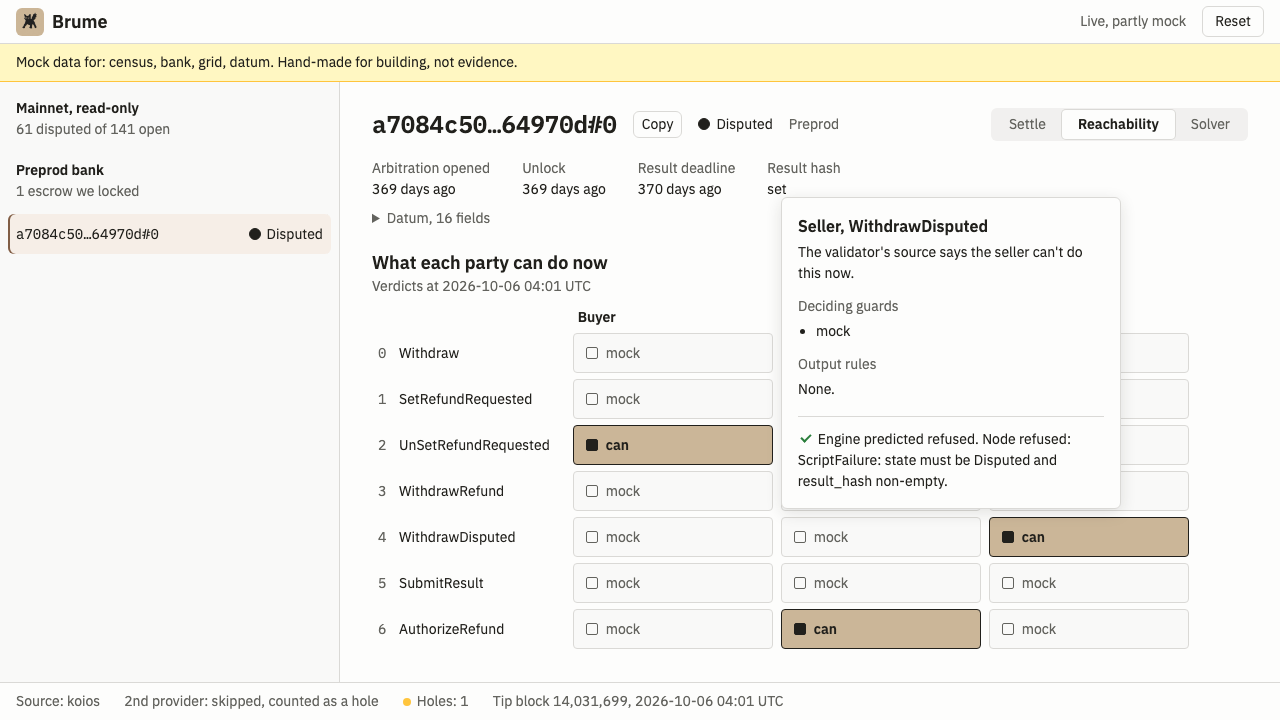
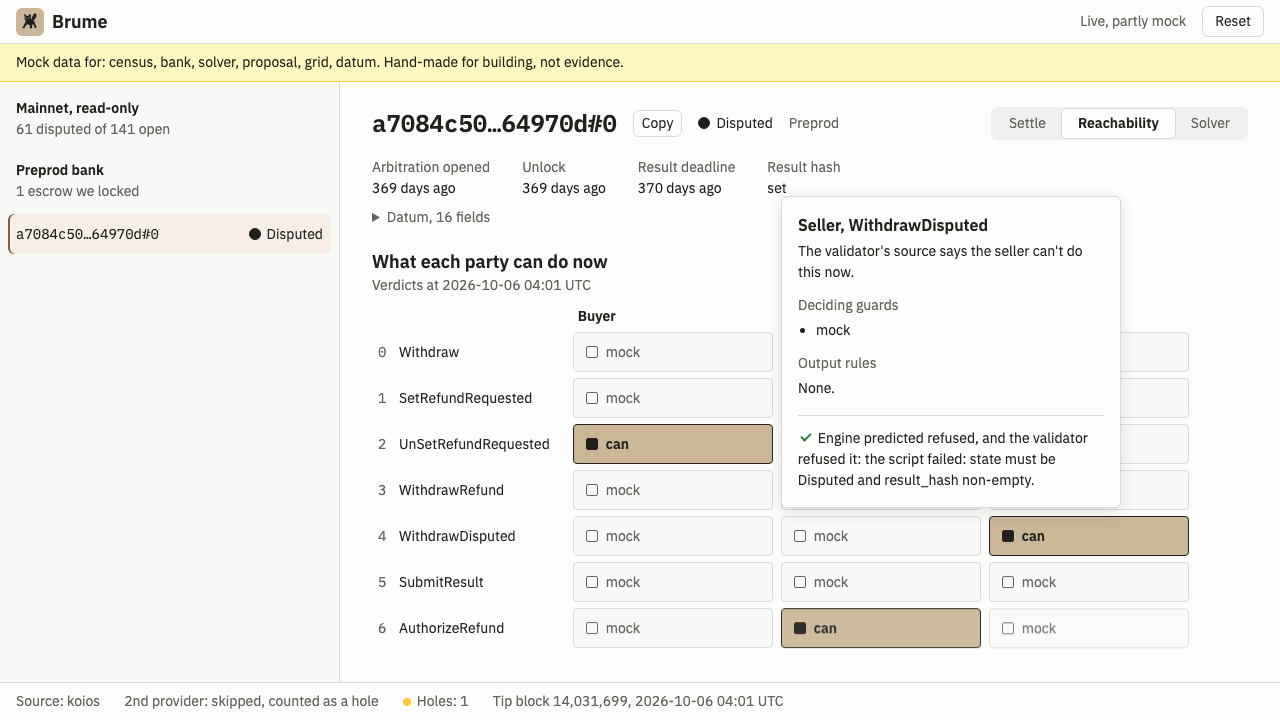
feat(ui): adopt the 13:25 shared batch: block refs, refusal phases, payout read-back, per-path bands

diff --git a/docs/app.js b/docs/app.js
@@ -183,9 +183,7 @@ function tryAnyway(row, v, anchor) {
       btn.remove()
       // expected = the engine's prediction recorded before submitting; stage = where the outcome was decided.
       const predicted = e.expected === 'accept' ? 'accepted' : 'refused'
-      const result = e.status === 'accepted'
-        ? ['the node accepted it: ', txLink(e.txHash)]
-        : [`${e.stage === 'evaluate' ? 'refused when evaluated, before submission' : 'the node refused it'}: ${e.error ?? 'no reason given'}.`]
+      const result = e.status === 'accepted' ? ['the node accepted it: ', txLink(e.txHash)] : [`${refusal(e)}.`]
       const matched = (e.status === 'accepted') === (e.expected === 'accept')
       out.replaceChildren(matched
         ? h('p', { class: 'matched' }, `Engine predicted ${predicted}, and `, result)
@@ -377,7 +375,15 @@ function sendButton(row, rerun) {
   return h('div', {}, btn, !live && h('span', { class: 'hint' }, 'Runs in live mode'), err)
 }
 
-const outcome = e => e.blockHeight ? `confirmed in block ${e.blockHeight.toLocaleString('en')}` : 'accepted'
+const outcome = e => e.block ? `confirmed in block ${e.block.height.toLocaleString('en')}` : 'accepted'
+
+// Claims rule: only a phase-2 failure (the script failed) may be called the validator refusing. Phase 1 is a ledger rule, e.g. a spent input.
+function refusal(e) {
+  if (e.stage === 'evaluate') return `refused when evaluated, before submission: ${e.refusal?.ledgerError ?? e.error ?? 'no reason given'}`
+  if (e.refusal?.phase === 2) return `the validator refused it: ${e.error ?? e.refusal.ledgerError}`
+  if (e.refusal?.phase === 1) return `the ledger refused it: ${e.refusal.ledgerError}`
+  return `refused: ${e.error ?? 'no reason given'}`
+}
 
 function settleSteps(row, proposal, log, rerun, band, wait) {
   const ctx = { row, proposal, rerun, wait }
@@ -407,14 +413,14 @@ function settleSteps(row, proposal, log, rerun, band, wait) {
       body: signed(conceder) ? [] : [waitingFor(conceder, ctx), validity] },
     { label: `${cap(conceder)} sends both legs`, done: leg1?.status === 'accepted' && leg2?.status === 'accepted', error: refused, waiting: 'Ready to send',
       body: refused
-        ? [h('p', {}, `Refused by the node: ${refused.error ?? 'no reason given'}. Start over on the next bank escrow.`)]
+        ? [h('p', {}, `${cap(refusal(refused))}. Start over on the next bank escrow.`)]
         : leg1 || leg2
           ? [[leg1, leg2].filter(Boolean).map(e => h('p', { class: 'hash' }, `${e.step}: ${outcome(e)}, `, txLink(e.txHash)))]
           : [sendButton(row, rerun), validity] },
     { label: 'Balances read back from the second indexer', done: !!leg2?.readback, waiting: 'Waiting for read-back',
       body: leg2?.readback ? [
         h('p', {}, `Read back on ${leg2.readback.provider}: ${leg2.readback.validContract ? 'valid contract' : 'contract not valid'}.`),
-        leg2.readback.balances && renderBalances(leg2.readback.balances),
+        leg2.readback.balances && proposal.payout && renderBalances(proposal.payout, leg2.readback.balances),
       ] : [] },
   ]
   // Leg 1 expired before it was sent: the first step still waiting turns into the re-prepare step.
@@ -433,21 +439,23 @@ function qty(unit, q) {
   return `${sign}${(abs / 1_000_000n).toLocaleString('en')}.${String(abs % 1_000_000n).padStart(6, '0')}`
 }
 
-// Carbon data-table pattern: compact rows, mono numbers right-aligned, before and after side by side.
-function renderBalances(balances) {
-  const signed = (unit, d) => `${d > 0n ? '+' : ''}${qty(unit, d)}`
-  return h('div', { class: 'balances-wrap' }, h('table', { class: 'balances' },
-    h('thead', {}, h('tr', {}, ['Party', 'Asset', 'Before', 'After', 'Change'].map((c, i) => h('th', { scope: 'col', class: i > 1 ? 'num' : null }, c)))),
-    h('tbody', {}, balances.map(b => {
-      const before = BigInt(b.before)
-      const after = BigInt(b.after)
+// Carbon data-table pattern. What leg 2 wrote for each party (Proposal.payout) against what the second indexer reads back
+// (readback.balances, taken as the amount each party received from leg 2): the split landed as signed, or it did not.
+function renderBalances(written, readBack) {
+  const rows = ['buyer', 'seller'].flatMap(party =>
+    [...new Set([...Object.keys(written[party] ?? {}), ...Object.keys(readBack[party] ?? {})])].map(unit => {
+      const w = BigInt(written[party]?.[unit] ?? 0)
+      const r = BigInt(readBack[party]?.[unit] ?? 0)
       return h('tr', {},
-        h('td', {}, cap(b.party)),
-        h('td', {}, b.asset === 'lovelace' ? 'ADA' : `${assetName(b.asset)} (base units)`),
-        h('td', { class: 'num mono' }, qty(b.asset, before)),
-        h('td', { class: 'num mono' }, qty(b.asset, after)),
-        h('td', { class: 'num mono' }, signed(b.asset, after - before)))
-    }))))
+        h('td', {}, cap(party)),
+        h('td', {}, unit === 'lovelace' ? 'ADA' : `${assetName(unit)} (base units)`),
+        h('td', { class: 'num mono' }, qty(unit, w)),
+        h('td', { class: 'num mono' }, qty(unit, r)),
+        h('td', { class: w === r ? 'match ok' : 'match off' }, w === r ? 'Matches' : 'Differs'))
+    }))
+  return h('div', { class: 'balances-wrap' }, h('table', { class: 'balances' },
+    h('thead', {}, h('tr', {}, ['Party', 'Asset', 'Written in leg 2', 'Read back', ''].map((c, i) => h('th', { scope: 'col', class: i === 2 || i === 3 ? 'num' : null }, c)))),
+    h('tbody', {}, rows)))
 }
 
 function renderSteps(steps) {
@@ -472,14 +480,14 @@ function renderLog(log) {
     h('ol', { class: 'timeline' }, log.map(e => h('li', { class: e.status },
       h('span', { class: 'mark', 'aria-hidden': 'true' }),
       h('span', {}, e.step),
-      h('span', { class: 'status' }, e.status === 'accepted' ? cap(outcome(e)) : `Refused: ${e.error ?? 'no reason given'}`),
+      h('span', { class: 'status' }, cap(e.status === 'accepted' ? outcome(e) : refusal(e))),
       txRef(e)))))
 }
 
 async function settleView(row) {
   const panel = h('div', { class: 'settle' })
   const solver = await load('solver', row.ref)
-  const band = solver.ref === row.ref ? solver.bands.find(b => b.horizonDays === 30) : null
+  const band = solver.ref === row.ref ? solver.bands.find(b => b.horizonDays === 30 && b.feasible !== false) : null
   let sent = [] // the submit response, shown while GET /api/txlog has nothing for this escrow
   let shown = null // label of the step last scrolled into view
   const wait = { label: null, since: Date.now(), busy: false, errors: {} } // elapsed counter, wallet in progress, wallet errors per role
@@ -526,17 +534,20 @@ function perAsset(terms, value) {
   }).join(', ')
 }
 
-function renderBands(bands) {
+function renderBands(solver) {
   const ticks = [0, 0.25, 0.5, 0.75, 1]
+  const who = solver.path === 'A' ? 'buyer' : 'seller' // the bands are priced for one settle path
   return h('section', { class: 'bands' },
-    h('h2', {}, 'Splits both sides can accept'),
+    h('h2', {}, `Splits both sides can accept, ${who} concedes first`),
     h('p', { class: 'hint' }, 'Seller\'s share of the escrow value, by how long the buyer is willing to wait for an arbiter.'),
     h('div', { class: 'band-grid' },
-      bands.map(b => [
+      solver.bands.map(b => [
         h('span', { class: 'band-label' }, `Buyer waits ${b.horizonDays} days`),
-        h('div', { class: 'track', title: `${pct(b.sellerShareMin)} to ${pct(b.sellerShareMax)} of the value` },
-          h('span', { class: 'range', style: `left:${b.sellerShareMin * 100}%;width:${(b.sellerShareMax - b.sellerShareMin) * 100}%` })),
-        h('span', { class: 'band-value mono' }, `${pct(b.sellerShareMin)} to ${pct(b.sellerShareMax)}`),
+        b.feasible === false
+          ? h('span', { class: 'band-none' }, 'No split both sides accept at this horizon.')
+          : [h('div', { class: 'track', title: `${pct(b.sellerShareMin)} to ${pct(b.sellerShareMax)} of the value` },
+              h('span', { class: 'range', style: `left:${b.sellerShareMin * 100}%;width:${(b.sellerShareMax - b.sellerShareMin) * 100}%` })),
+            h('span', { class: 'band-value mono' }, `${pct(b.sellerShareMin)} to ${pct(b.sellerShareMax)}`)],
       ]),
       h('span'),
       h('div', { class: 'axis', 'aria-hidden': 'true' }, ticks.map(t => h('span', { style: `left:${t * 100}%` }, pct(t)))),
@@ -554,7 +565,8 @@ function renderPaths(solver, value) {
         row('Protocol fee', p => Object.keys(p.fee).length ? perAsset(p.fee, value) : 'None'),
         row('Exposed on the second leg', p => cap(p.exposedParty)),
         row('Least the exposed party keeps', p => perAsset(p.exposedFloor, value)),
-        row('What a defector can take', p => perAsset(p.defectorKeeps, value))),
+        row('What a defector can take', p => perAsset(p.defectorKeeps, value)),
+        row('Paid in on top to cover the fee', p => Object.keys(p.topUp ?? {}).length ? perAsset(p.topUp, value) : 'None')),
     ),
     solver.frontRunP && h('p', { class: 'hint front-run' }, solver.frontRunP.measured
       ? `Front-run risk on the second leg is priced at p = ${solver.frontRunP.used}, measured on preprod.`
@@ -564,7 +576,7 @@ function renderPaths(solver, value) {
 async function solverView(row) {
   const solver = await load('solver', row.ref)
   if (solver.ref !== row.ref) return blank('No solver output for this escrow', 'The solver has not priced this reference in this data set.', false)
-  return [renderBands(solver.bands), renderPaths(solver, row.value)]
+  return [renderBands(solver), renderPaths(solver, row.value)]
 }
 
 /* Shell */

diff --git a/docs/app.css b/docs/app.css
@@ -234,7 +234,6 @@ body {
 .balances thead th { font-weight: 600; border-bottom-color: var(--line-strong); }
 .balances .num { text-align: right; white-space: nowrap; }
 .balances-wrap { overflow-x: auto; }
-@media (max-width: 900px) { .balances th:nth-child(3), .balances td:nth-child(3) { display: none; } }
 
 /* Transactions (Primer Timeline pattern, condensed) */
 .log { margin-top: 32px; max-width: 820px; }
@@ -335,3 +334,9 @@ button, a { touch-action: manipulation; }
 
 .tnum { font-variant-numeric: tabular-nums; }
 .front-run { margin: 8px 0 0; }
+.balances .match { white-space: nowrap; }
+.balances .match::before { content: ""; display: inline-block; width: 8px; height: 8px; margin-right: 6px; border-radius: 50%; }
+.balances .match.ok::before { background: var(--ok); }
+.balances .match.off { font-weight: 600; }
+.balances .match.off::before { background: var(--bad); }
+.band-none { grid-column: span 2; font-size: 14px; color: var(--ink-2); }

diff --git a/docs/DESIGN.md b/docs/DESIGN.md
@@ -148,7 +148,7 @@ Left-aligned throughout. List 340 px, detail fills the rest. The view switch sit
 | leg 1 expired | the first step still waiting turns into "Expired": "Leg 1 expired before it was sent. Prepare it again: both sides sign the new hashes." + Prepare again (re-runs `POST /api/proposal` with the same share) |
 | sending | spinner in place of the icon, tx hash + Cexplorer link as soon as known |
 | confirmed | check, block / slot |
-| refused or failed | `--bad` icon, the node's reason rewritten to the guard it hit, raw error one click away, what to do next (retry on the next bank escrow) |
+| refused or failed | `--bad` icon and the reason worded by where it was decided (claims rule: only phase 2 is the validator): `stage: evaluate` "refused when evaluated, before submission"; `refusal.phase` 2 "the validator refused it"; phase 1 "the ledger refused it: <ledgerError>" (e.g. the leg-2 replay, `BadInputsUTxO`). Then what to do next (start over on the next bank escrow) |
 
 **CIP-30 (S-3)**: no wallet detected (button absent, file drop only) · connecting · wrong network (`getNetworkId() !== 0`: refused before anything is signed; CIP-30 cannot tell preprod from preview) · confirm in your wallet (polling holds so the button is not re-rendered) · signature declined (`TxSignError` 2: message kept across re-renders, nothing sent) · wallet lacks the key (`TxSignError` 1) · access refused (`APIError` -3). The buyer signs leg 2, the seller leg 1, always `partialSign = true`. Waiting steps also show a live elapsed counter (live mode).
 
@@ -174,7 +174,7 @@ Left-aligned throughout. List 340 px, detail fills the rest. The view switch sit
 **Interface requests** (to propose in PLAN.md with a §11 entry; not applied here):
 1. `TxLogEntry.status` is `accepted | refused`; the UI needs `submitted | confirmed | refused` plus `slot?` to draw sending vs confirmed.
 2. `Proposal.signatures`: per entry `{role, leg, bodyHash, at}`, so each step knows who signed what.
-3. `readback.balances?: {party: "buyer" | "seller" | "fee", asset: string, before: string, after: string}[]` on the leg-2 entry (asset = unit as in `Value`, quantities as decimal strings), read back from the second indexer. The UI renders the balances table when the field is present. Token decimals (USDM) belong in `shared/constants.ts`; until then tokens show in base units.
+3. Done on main (`b3b1ec3`): `readback.balances?: { buyer: Value; seller: Value }` on the leg-2 entry, read back from the second indexer. The UI compares it with `Proposal.payout` (what leg 2 wrote): Party | Asset | Written in leg 2 | Read back | Matches or Differs. It assumes the read-back value is what each party received from leg 2 (asked to stream A). Token decimals (USDM) belong in `shared/constants.ts`; until then tokens show in base units.
 4. Join between `Verdict` and `TxLogEntry` (`redeemer`, `role` on the entry), so a cell can show the tx that exercised it (R5).
 5. `explorerUrl(network, txHash)` in `shared/constants.ts`.
 6. A mock input for `site:data`, so `docs/data/*.json` can be produced from `shared/mock/*.mock.json` (Pages does not serve `shared/`).
